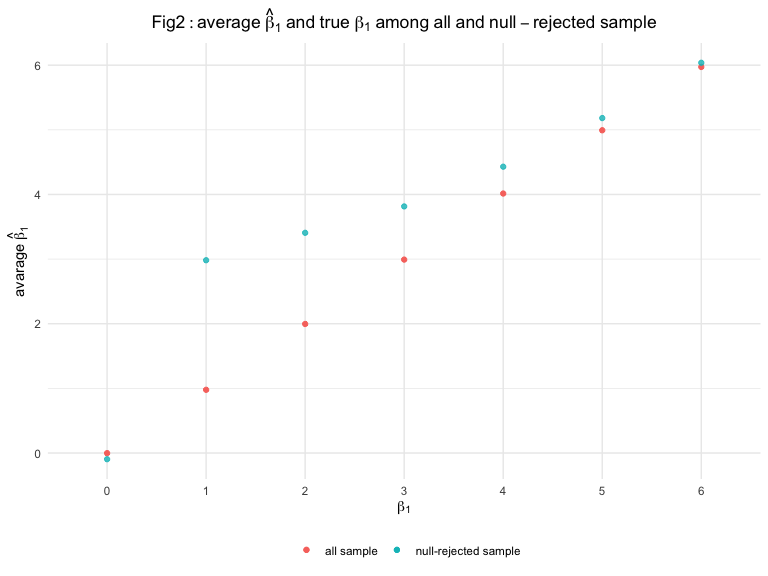
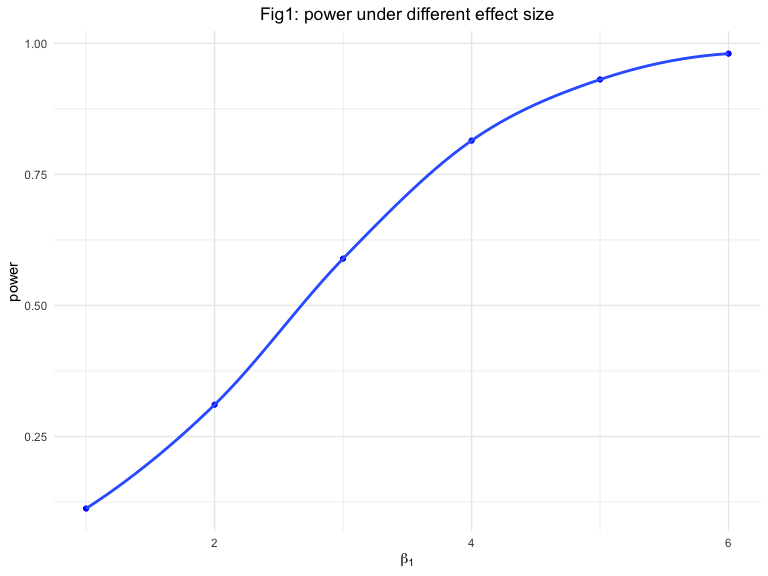
check code and make plots look better

diff --git a/p8105_hw5_xj2249.md b/p8105_hw5_xj2249.md
@@ -6,6 +6,8 @@ xj2249
 # Problem1
 
 ``` r
+# read in the data
+set.seed(10)
 iris_with_missing <-
         iris %>% 
         map_df(~replace(.x, sample(1:150, 20), NA)) %>%
@@ -61,7 +63,8 @@ study_df <-
         separate(file_names,into = c("group","id"), sep = "_") %>% 
         mutate(
                 id = str_remove(id,".csv"),
-                week = factor(week)) 
+                week = factor(week)
+                ) 
 head(study_df) %>% knitr::kable()
 ```
 
@@ -80,7 +83,8 @@ head(study_df) %>% knitr::kable()
 study_df %>% 
         ggplot(aes(x = week, y = observations)) +
         geom_line(aes(group = id,color = id)) +
-        facet_grid(.~ group,labeller = as_labeller(c("con" =  "control", "exp" = "experiment"))) +
+        facet_grid(.~ group,
+                   labeller = as_labeller(c("con" =  "control", "exp" = "experiment"))) +
         labs(title = "Observations on each subject over time") 
 ```
 
@@ -95,52 +99,58 @@ increased trend with time passing by.
 # Problem3
 
 ``` r
+# linear regression function
 lm_regression <- function(n = 30, beta0 = 2, beta1 = 0 ){
+        
         sim_df = tibble(
                 x = rnorm(n),
                 y = beta0 + beta1*x + rnorm(n,0,sqrt(50))
                 )
-        ls_fit = lm(y ~ x , data = sim_df)
+        
+        ls_fit = lm(y ~ x , data = sim_df) %>%  broom::tidy()
         
         tibble(
-                beta1_hat = coef(ls_fit)[2],
-                p_value = 
-                        ls_fit %>% 
-                        broom::tidy() %>% 
-                        filter(term == "x") %>% 
-                        pull(p.value)
+                beta1_hat = ls_fit[[2,2]],
+                p_value = ls_fit[[2,5]]
                 )
 }
 ```
 
+## 10000 datasets for ![\\beta\_1](https://latex.codecogs.com/png.latex?%5Cbeta_1 "\\beta_1") = 0
+
+``` r
+sim_results_0 <- 
+        rerun(10000,lm_regression(beta1 = 0 )) %>% 
+        bind_rows()              
+```
+
 ``` r
 sim_results <-
-        tibble(beta1 = c(0,1,2,3,4,5,6)) %>% 
+        tibble(beta1 = 1:6) %>% 
         mutate(
                 output = map( .x = beta1, ~rerun(10000,lm_regression(beta1 = .x ))),
                 output = map(output,bind_rows)
                 ) %>% 
-        unnest(output) %>% 
-        mutate(beta1 = factor(beta1))
+        unnest(output) 
 ```
 
 ## Association between effect size and power
 
 ``` r
 sim_results %>% 
-        filter(beta1 != 0) %>% 
         mutate(reject = case_when(p_value < 0.05 ~ 1,
                                   TRUE ~ 0)) %>% 
         group_by(beta1) %>% 
         summarise(power = mean(reject)) %>% 
-        ggplot(aes(x = beta1, y = power, color = beta1)) +
-        geom_point() + 
+        ggplot(aes(x = beta1, y = power)) +
+        geom_point(color = "blue") +
+        geom_smooth() +
         labs( x = expression(beta[1]),
               title = "Fig1: power under different effect size") +
         theme(legend.position = "none")
 ```
 
-<img src="p8105_hw5_xj2249_files/figure-gfm/unnamed-chunk-5-1.png" width="90%" />
+<img src="p8105_hw5_xj2249_files/figure-gfm/unnamed-chunk-6-1.png" width="90%" />
 
 As the plot shows, with the increase of size effect, the power of test
 increases.
@@ -158,22 +168,26 @@ sim_results %>%
         group_by(beta1) %>% 
         summarise(mean_beta1_hat = mean(beta1_hat)) %>% 
         ggplot(aes(x = beta1, y = mean_beta1_hat)) +
-        geom_point(aes( color = "all sample")) +
-        geom_point(aes( color = "null-rejected sample"),alpha = 0.8,data = null_rejected_df) + 
+        geom_point(aes( color = "all sample"), size = 1) +
+        geom_smooth(aes( color = "all sample"), size = 0.5 ) +
+        geom_point(aes( color = "null-rejected sample"), size = 1, data = null_rejected_df) + 
+        geom_smooth(aes(color = "null-rejected sample"), size = 0.5, data = null_rejected_df) +
         labs( x = expression(beta[1]),
               y = expression(avarage~hat(beta)[1]),
-              title = expression(Fig2: average~hat(beta)[1]~and~true~beta[1]~among~all~and~null-rejected~sample)) 
+              title = expression(Fig2: average~hat(beta)[1]~and~true~beta[1]~among~all~and~null-rejected~sample))
 ```
 
-<img src="p8105_hw5_xj2249_files/figure-gfm/unnamed-chunk-6-1.png" width="90%" />
+<img src="p8105_hw5_xj2249_files/figure-gfm/unnamed-chunk-7-1.png" width="90%" />
 
 The sample average of
 ![\\hat{\\beta\_1}](https://latex.codecogs.com/png.latex?%5Chat%7B%5Cbeta_1%7D
-"\\hat{\\beta_1}") across tests for which the null is rejected get
-closer and closer to the true value of
+"\\hat{\\beta_1}") across tests for which the null is rejected is not
+equal to the true value of
 ![\\beta\_1](https://latex.codecogs.com/png.latex?%5Cbeta_1 "\\beta_1")
-with the ![\\beta\_1](https://latex.codecogs.com/png.latex?%5Cbeta_1
-"\\beta_1") (effect size) increases.
+when the effect size is small. But with the
+![\\beta\_1](https://latex.codecogs.com/png.latex?%5Cbeta_1 "\\beta_1")
+(effect size) increases, it gets closer and closer to the true
+![\\beta\_1](https://latex.codecogs.com/png.latex?%5Cbeta_1 "\\beta_1").
 
 When the effect size is small, the power of test is relatively low and
 therefore, to be rejected, a
